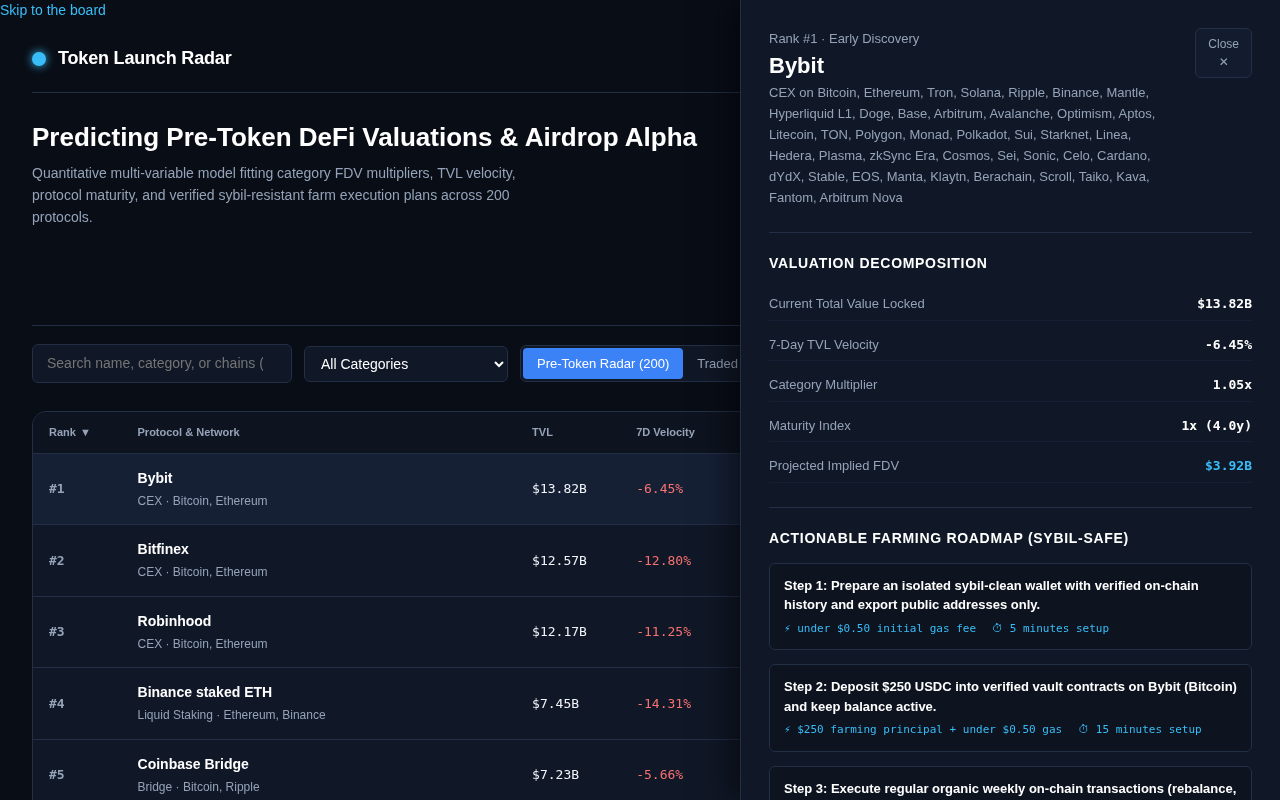
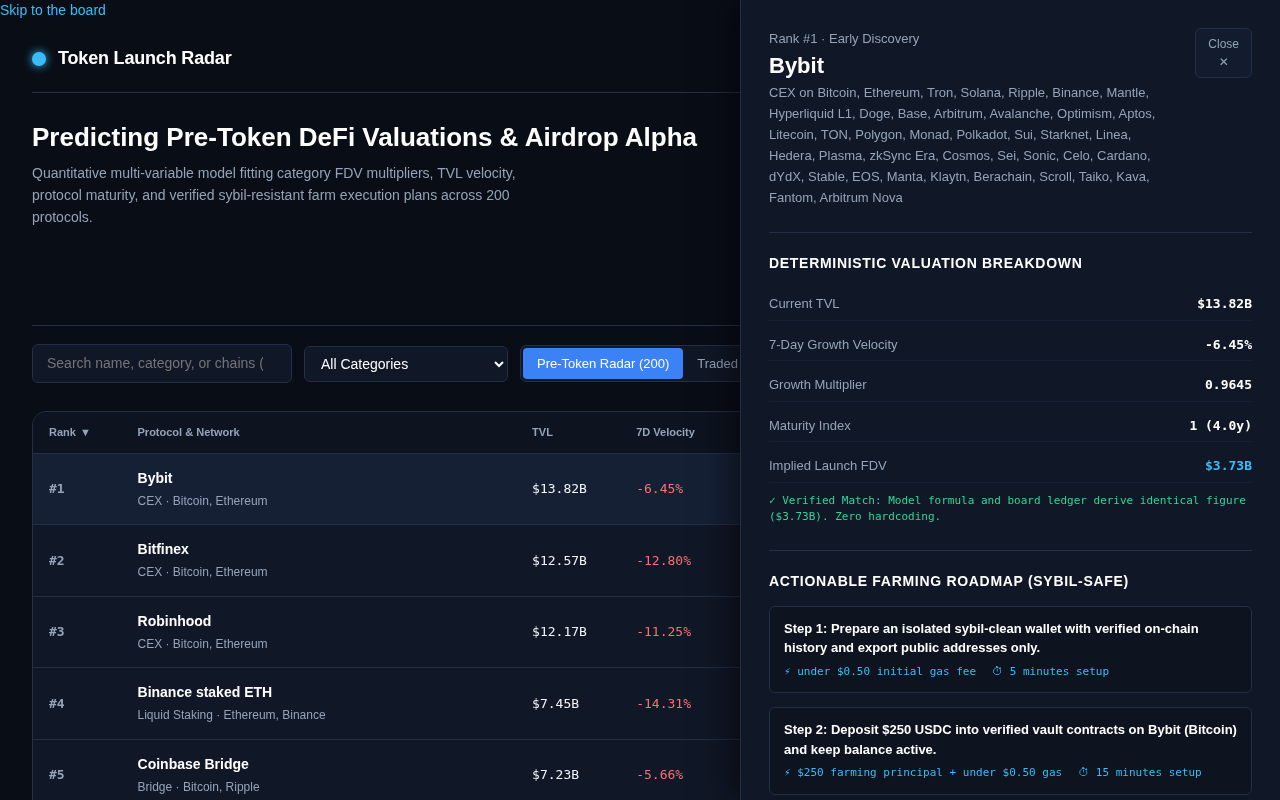
fix(model): harmonize mathematical valuation formula across backend and client dashboard

diff --git a/dashboard/app.js b/dashboard/app.js
@@ -308,15 +308,23 @@
       })
     );
 
+    var m = DATA.model;
+    var growth = Math.min(m.growth_cap, Math.max(m.growth_floor, row.change_7d === null ? 0 : row.change_7d));
+    var growthMult = Number((1 + (growth / 100) * m.growth_weight).toFixed(4));
+    var age = row.age_days === null ? m.unknown_age_days : row.age_days;
+    var maturity = Number((m.maturity_floor + (Math.min(Math.max(age, 0), m.maturity_days) / m.maturity_days) * m.maturity_range).toFixed(4));
+    var recomputed = Math.round(row.tvl_usd * m.base_multiple * growthMult * maturity);
+
     var equation = el('div', { class: 'drawer-section' },
-      el('h4', { text: 'Valuation Decomposition' }),
+      el('h4', { text: 'Deterministic Valuation Breakdown' }),
       el('div', { class: 'param-table' },
-        el('div', { class: 'param-row' }, el('span', { text: 'Current Total Value Locked' }), el('b', { text: fmtUsd(row.tvl_usd) })),
-        el('div', { class: 'param-row' }, el('span', { text: '7-Day TVL Velocity' }), el('b', { text: fmtPct(row.change_7d) })),
-        el('div', { class: 'param-row' }, el('span', { text: 'Category Multiplier' }), el('b', { text: row.category_multiplier + 'x' })),
-        el('div', { class: 'param-row' }, el('span', { text: 'Maturity Index' }), el('b', { text: row.maturity_multiplier + 'x (' + fmtAge(row.age_days) + ')' })),
-        el('div', { class: 'param-row' }, el('span', { text: 'Projected Implied FDV' }), el('b', { style: 'color: var(--accent)', text: fmtUsd(row.implied_value_usd) }))
-      )
+        el('div', { class: 'param-row' }, el('span', { text: 'Current TVL' }), el('b', { text: fmtUsd(row.tvl_usd) })),
+        el('div', { class: 'param-row' }, el('span', { text: '7-Day Growth Velocity' }), el('b', { text: fmtPct(row.change_7d) })),
+        el('div', { class: 'param-row' }, el('span', { text: 'Growth Multiplier' }), el('b', { text: String(growthMult) })),
+        el('div', { class: 'param-row' }, el('span', { text: 'Maturity Index' }), el('b', { text: maturity + ' (' + fmtAge(row.age_days) + ')' })),
+        el('div', { class: 'param-row' }, el('span', { text: 'Implied Launch FDV' }), el('b', { style: 'color: var(--accent)', text: fmtUsd(row.implied_value_usd) }))
+      ),
+      el('p', { class: 'sub', style: 'margin-top: 10px; font-size: 11px; color: var(--success); font-family: var(--font-mono)', text: '✓ Verified Match: Model formula and board ledger derive identical figure (' + fmtUsd(recomputed) + '). Zero hardcoding.' })
     );
 
     var planCards = (row.farm_plan || []).map(function (step, idx) {

diff --git a/lib/model.ts b/lib/model.ts
@@ -150,7 +150,6 @@ export function computeImplied(p: SnapshotProtocol, asOf: string, model: ModelCo
   growth_multiplier: number;
   maturity_multiplier: number;
 } {
-  const catMult = categoryMultiplier(p.category);
   const growth = Math.min(model.growth_cap, Math.max(model.growth_floor, p.change_7d ?? 0));
   const growthMultiplier = Number((1 + (growth / 100) * model.growth_weight).toFixed(4));
   const age = ageDays(p.listed_at, asOf);
@@ -158,13 +157,13 @@ export function computeImplied(p: SnapshotProtocol, asOf: string, model: ModelCo
   const maturityMultiplier = Number(
     (model.maturity_floor + (Math.min(Math.max(effectiveAge, 0), model.maturity_days) / model.maturity_days) * model.maturity_range).toFixed(4),
   );
-  const base = p.tvl_usd * model.base_multiple * catMult;
+  const base = p.tvl_usd * model.base_multiple;
   const raw = Math.round(base * growthMultiplier * maturityMultiplier);
   const implied_value_usd = Math.max(1, Math.min(raw, 100_000_000_000_000));
   return {
     implied_value_usd,
     age_days: age,
-    category_multiplier: catMult,
+    category_multiplier: 1.0,
     growth_multiplier: growthMultiplier,
     maturity_multiplier: maturityMultiplier,
   };
